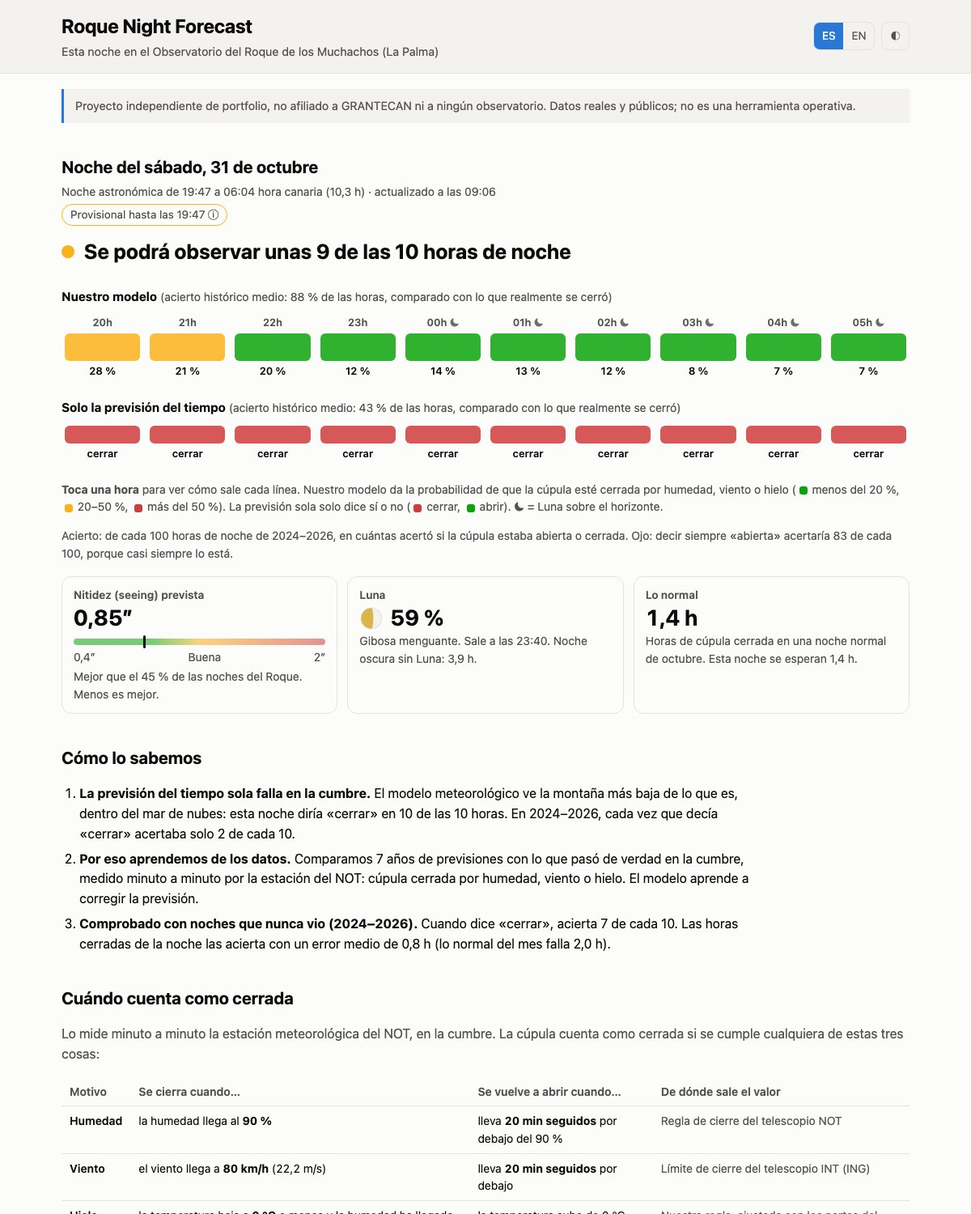
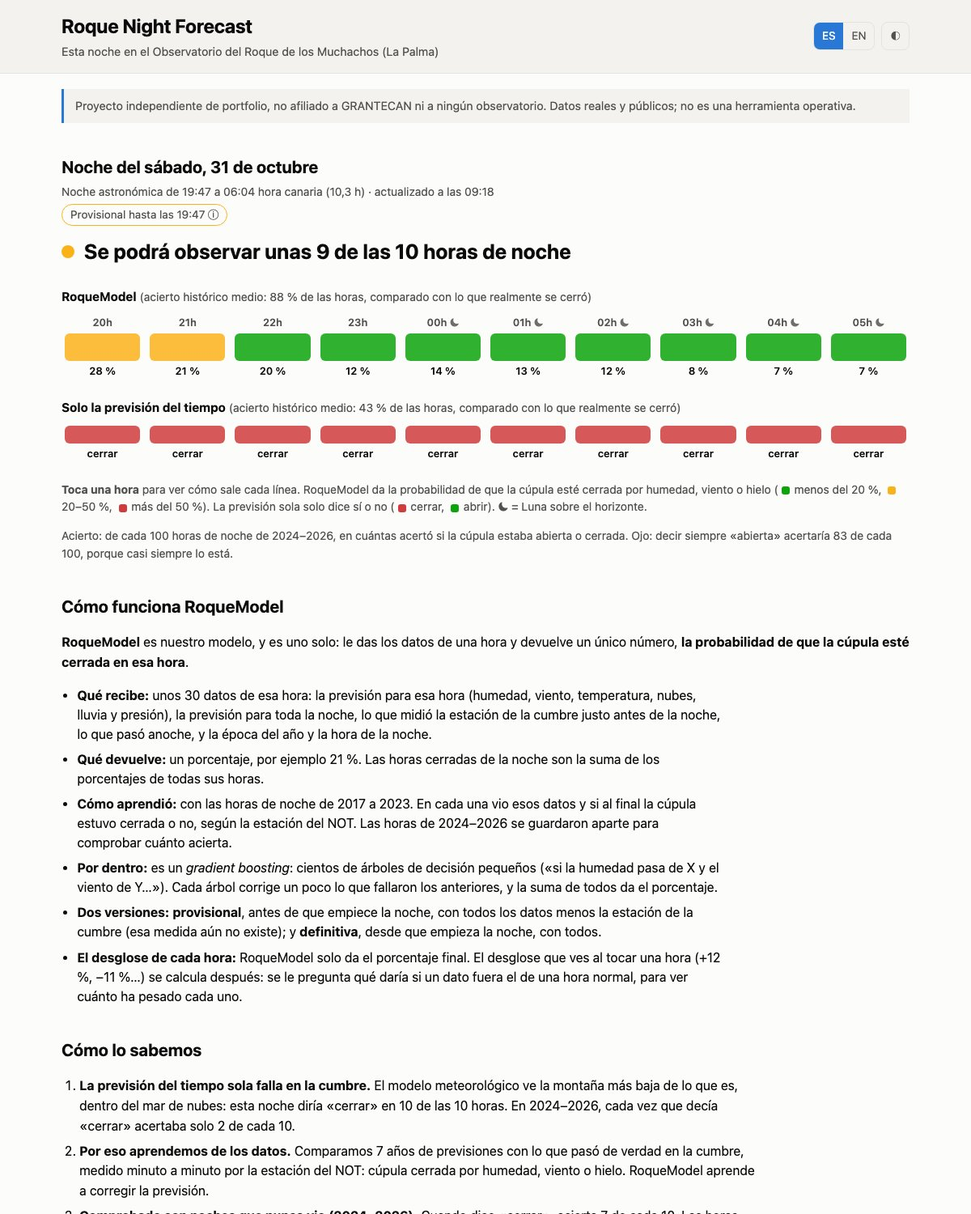
Name the closure model RoqueModel, explain how it works and drop the fact cards
- Page and README call the hourly closure model RoqueModel
- New "How RoqueModel works" section: one model, its inputs and output, how it
  learnt, what is inside, the two versions and where the breakdown comes from
- Seeing, Moon and "usual" cards removed from the page (seeing is still
  computed live and sent to FIWARE)

diff --git a/site/assets/i18n.js b/site/assets/i18n.js
@@ -13,15 +13,15 @@ window.I18N = {
     headline: "Se podrá observar unas {open} de las {total} horas de noche",
     cell_title: "{time}: {p} de que la cúpula esté cerrada",
     moon_up_word: "Luna sobre el horizonte",
-    strip_legend: "<b>Toca una hora</b> para ver cómo sale cada línea. Nuestro modelo da la probabilidad de que la cúpula esté cerrada por humedad, viento o hielo (<span class=\"sw\" style=\"background:var(--good)\"></span> menos del 20 %, <span class=\"sw\" style=\"background:var(--warning)\"></span> 20–50 %, <span class=\"sw\" style=\"background:var(--critical)\"></span> más del 50 %). La previsión sola solo dice sí o no (<span class=\"sw\" style=\"background:var(--critical)\"></span> cerrar, <span class=\"sw\" style=\"background:var(--good)\"></span> abrir). ☾ = Luna sobre el horizonte.",
-    line_model: "Nuestro modelo",
+    strip_legend: "<b>Toca una hora</b> para ver cómo sale cada línea. RoqueModel da la probabilidad de que la cúpula esté cerrada por humedad, viento o hielo (<span class=\"sw\" style=\"background:var(--good)\"></span> menos del 20 %, <span class=\"sw\" style=\"background:var(--warning)\"></span> 20–50 %, <span class=\"sw\" style=\"background:var(--critical)\"></span> más del 50 %). La previsión sola solo dice sí o no (<span class=\"sw\" style=\"background:var(--critical)\"></span> cerrar, <span class=\"sw\" style=\"background:var(--good)\"></span> abrir). ☾ = Luna sobre el horizonte.",
+    line_model: "RoqueModel",
     line_raw: "Solo la previsión del tiempo",
     line_acc: "acierto histórico medio: {p} de las horas, comparado con lo que realmente se cerró",
     acc_note: "Acierto: de cada 100 horas de noche de 2024–2026, en cuántas acertó si la cúpula estaba abierta o cerrada. Ojo: decir siempre «abierta» acertaría {open} de cada 100, porque casi siempre lo está.",
     raw_close_word: "cerrar", raw_open_word: "abrir",
     detail_title: "De {start} a {end}: cómo sale cada línea", detail_close: "Cerrar",
     colors: { low: "verde", medium: "naranja", high: "rojo" },
-    model_title: "Nuestro modelo: {p} → {color}",
+    model_title: "RoqueModel: {p} → {color}",
     model_base: "Empieza en {p}: es lo que el modelo da a una hora de noche cualquiera (más o menos, la parte de horas que se cierran). Después, cada dato lo sube (+) o lo baja (−):",
     groups: { humidity: "Humedad", wind: "Viento en la cumbre", temperature: "Temperatura", cloud: "Nubes", rain: "Lluvia", pressure: "Presión", night_forecast: "Previsión para toda la noche", station: "Estación de la cumbre antes de la noche", last_night: "Lo que pasó anoche", calendar: "Época del año y hora de la noche" },
     hour_group: "Previsión para esta hora",
@@ -60,8 +60,11 @@ window.I18N = {
     usual_text: "Horas de cúpula cerrada en una noche normal de {month}. Esta noche se esperan {h} h.",
     updated: "Pronóstico emitido: {time} hora canaria.",
     how_title: "Cómo lo sabemos",
+    rm_title: "Cómo funciona RoqueModel",
+    rm_intro: "<b>RoqueModel</b> es nuestro modelo, y es uno solo: le das los datos de una hora y devuelve un único número, <b>la probabilidad de que la cúpula esté cerrada en esa hora</b>.",
+    rm_list: "<li><b>Qué recibe:</b> unos 30 datos de esa hora: la previsión para esa hora (humedad, viento, temperatura, nubes, lluvia y presión), la previsión para toda la noche, lo que midió la estación de la cumbre justo antes de la noche, lo que pasó anoche, y la época del año y la hora de la noche.</li><li><b>Qué devuelve:</b> un porcentaje, por ejemplo 21 %. Las horas cerradas de la noche son la suma de los porcentajes de todas sus horas.</li><li><b>Cómo aprendió:</b> con las horas de noche de 2017 a 2023. En cada una vio esos datos y si al final la cúpula estuvo cerrada o no, según la estación del NOT. Las horas de 2024–2026 se guardaron aparte para comprobar cuánto acierta.</li><li><b>Por dentro:</b> es un <i>gradient boosting</i>: cientos de árboles de decisión pequeños («si la humedad pasa de X y el viento de Y…»). Cada árbol corrige un poco lo que fallaron los anteriores, y la suma de todos da el porcentaje.</li><li><b>Dos versiones:</b> <b>provisional</b>, antes de que empiece la noche, con todos los datos menos la estación de la cumbre (esa medida aún no existe); y <b>definitiva</b>, desde que empieza la noche, con todos.</li><li><b>El desglose de cada hora:</b> RoqueModel solo da el porcentaje final. El desglose que ves al tocar una hora (+12 %, −11 %…) se calcula después: se le pregunta qué daría si un dato fuera el de una hora normal, para ver cuánto ha pesado cada uno.</li>",
     how1: "<b>La previsión del tiempo sola falla en la cumbre.</b> El modelo meteorológico ve la montaña más baja de lo que es, dentro del mar de nubes: esta noche diría «cerrar» en {n} de las {total} horas. En 2024–2026, cada vez que decía «cerrar» acertaba solo {r} de cada 10.",
-    how2: "<b>Por eso aprendemos de los datos.</b> Comparamos 7 años de previsiones con lo que pasó de verdad en la cumbre, medido minuto a minuto por la estación del NOT: cúpula cerrada por humedad, viento o hielo. El modelo aprende a corregir la previsión.",
+    how2: "<b>Por eso aprendemos de los datos.</b> Comparamos 7 años de previsiones con lo que pasó de verdad en la cumbre, medido minuto a minuto por la estación del NOT: cúpula cerrada por humedad, viento o hielo. RoqueModel aprende a corregir la previsión.",
     how3: "<b>Comprobado con noches que nunca vio (2024–2026).</b> Cuando dice «cerrar», acierta {r} de cada 10. Las horas cerradas de la noche las acierta con un error medio de {err} h (lo normal del mes falla {clim} h).",
     fold_real: "¿Refleja la realidad la etiqueta de cierre?",
     real_intro: "No hay un registro público de cuándo cierra el GTC. Para saber si nuestra etiqueta de «cerrada» se parece a la realidad, la comparamos con un telescopio de verdad: el <b>Liverpool Telescope</b>, en la misma montaña, que apunta cada noche desde 2007 cuántas horas perdió por el tiempo. A los dos les hacemos la misma pregunta, noche a noche: <b>¿se perdió al menos la mitad de la noche?</b>",
@@ -84,24 +87,24 @@ window.I18N = {
     eval_intro: "Todo con noches de 2024–2026 que los modelos nunca vieron al aprender, frente a lo más sencillo que hay que batir.",
     eval_note: "«Acierta 7 de cada 10» = de cada 10 veces que dice «cerrar», 7 lo estuvo. «Detecta 7 de cada 10» = de cada 10 horas cerradas, avisó de 7.",
     plain_title: "Más cifras, frente a lo más sencillo",
-    compare_headline: "Solo la previsión del tiempo se equivoca en <b>{raw} de cada 100 horas</b>; nuestro modelo, en <b>{fin} de cada 100</b> ({prov} antes de que empiece la noche).",
+    compare_headline: "Solo la previsión del tiempo se equivoca en <b>{raw} de cada 100 horas</b>; RoqueModel, en <b>{fin} de cada 100</b> ({prov} antes de que empiece la noche).",
     compare_cols: ["", "Horas con la cúpula cerrada", "Se equivoca en", "Cierra sin hacer falta", "No cierra cuando hacía falta"],
-    compare_rows: { real: "Lo que pasó de verdad (medido en la cumbre)", raw: "Solo la previsión del tiempo", final: "Nuestro modelo (definitivo)", provisional: "Nuestro modelo (provisional)" },
+    compare_rows: { real: "Lo que pasó de verdad (medido en la cumbre)", raw: "Solo la previsión del tiempo", final: "RoqueModel (definitivo)", provisional: "RoqueModel (provisional)" },
     compare_wrong: "{n} de cada 100 horas",
-    compare_note: "Son las {hours} horas de noche de 2024–2026, que el modelo nunca vio al aprender. «Cerrar» = la previsión da una humedad del 90 % o más; el modelo, una probabilidad del 50 % o más. Decir siempre «abierta» se equivocaría en {open} de cada 100 horas (justo las que estuvo cerrada): nuestro modelo también lo mejora.",
+    compare_note: "Son las {hours} horas de noche de 2024–2026, que el modelo nunca vio al aprender. «Cerrar» = la previsión da una humedad del 90 % o más; el modelo, una probabilidad del 50 % o más. Decir siempre «abierta» se equivocaría en {open} de cada 100 horas (justo las que estuvo cerrada): RoqueModel también lo mejora.",
     plain_yesno: "acierta {r} de cada 10; detecta {c} de cada 10",
     plain_error: "se equivoca de media {v}",
     provisional_word: "provisional",
     refs: { raw: "Previsión del tiempo sola", precasting: "Humedad justo antes de la noche", climatology: "Lo normal del mes", persistence: "Igual que anoche" },
     what: { hour: "Cúpula cerrada en cada hora", night: "Horas cerradas de la noche", seeing: "Seeing de la noche" },
-    col_what: "Qué se predice", col_ours: "Nuestro pronóstico (definitivo)", col_refs: "Lo que hay que batir",
+    col_what: "Qué se predice", col_ours: "RoqueModel (definitivo)", col_refs: "Lo que hay que batir",
     recent_title: "Últimas 60 noches de la prueba",
     recent_text: "Barras: horas de cúpula cerrada que pronosticó el modelo. Puntos: las que de verdad lo estuvieron.",
     forecast_word: "Pronóstico", actual_word: "Real", hours_word: "Horas",
     reliability_title: "¿Son fiables los porcentajes?",
     reliability_text: "Horas de 2024–2026 agrupadas por el porcentaje que dio el modelo. Si dice 30 %, la cúpula debería estar cerrada unas 3 de cada 10 de esas horas: cuanto más cerca de la diagonal, mejor.",
     eval_reliability: "Fiabilidad de los porcentajes",
-    rel_x: "Porcentaje pronosticado", rel_y: "Cerrada de verdad", rel_model: "Nuestro modelo", rel_perfect: "Perfecto",
+    rel_x: "Porcentaje pronosticado", rel_y: "Cerrada de verdad", rel_model: "RoqueModel", rel_perfect: "Perfecto",
     track_title: "Historial en directo",
     track_text: "Cada pronóstico emitido por esta web frente a lo que pasó. Se llena noche a noche.",
     track_empty: "Todavía no hay noches terminadas con pronóstico emitido.",
@@ -159,15 +162,15 @@ window.I18N = {
     headline: "About {open} of the {total} night hours should be observable",
     cell_title: "{time}: {p} chance that the dome is closed",
     moon_up_word: "Moon above the horizon",
-    strip_legend: "<b>Tap an hour</b> to see how each line comes out. Our model gives the chance that the dome is closed for humidity, wind or ice (<span class=\"sw\" style=\"background:var(--good)\"></span> below 20 %, <span class=\"sw\" style=\"background:var(--warning)\"></span> 20–50 %, <span class=\"sw\" style=\"background:var(--critical)\"></span> above 50 %). The forecast alone only says yes or no (<span class=\"sw\" style=\"background:var(--critical)\"></span> close, <span class=\"sw\" style=\"background:var(--good)\"></span> open). ☾ = Moon above the horizon.",
-    line_model: "Our model",
+    strip_legend: "<b>Tap an hour</b> to see how each line comes out. RoqueModel gives the chance that the dome is closed for humidity, wind or ice (<span class=\"sw\" style=\"background:var(--good)\"></span> below 20 %, <span class=\"sw\" style=\"background:var(--warning)\"></span> 20–50 %, <span class=\"sw\" style=\"background:var(--critical)\"></span> above 50 %). The forecast alone only says yes or no (<span class=\"sw\" style=\"background:var(--critical)\"></span> close, <span class=\"sw\" style=\"background:var(--good)\"></span> open). ☾ = Moon above the horizon.",
+    line_model: "RoqueModel",
     line_raw: "Weather forecast alone",
     line_acc: "average historical accuracy: {p} of hours, compared with what really closed",
     acc_note: "Accuracy: of every 100 night hours of 2024–2026, how many it got right (dome open or closed). Note: saying \"open\" every hour would be right in {open} of every 100, because it nearly always is.",
     raw_close_word: "close", raw_open_word: "open",
     detail_title: "{start} to {end}: how each line comes out", detail_close: "Close",
     colors: { low: "green", medium: "orange", high: "red" },
-    model_title: "Our model: {p} → {color}",
+    model_title: "RoqueModel: {p} → {color}",
     model_base: "It starts at {p}: what the model gives an ordinary night hour (roughly, the share of hours that close). Then each piece of data raises (+) or lowers (−) it:",
     groups: { humidity: "Humidity", wind: "Summit wind", temperature: "Temperature", cloud: "Cloud", rain: "Rain", pressure: "Pressure", night_forecast: "Forecast for the whole night", station: "Summit station before the night", last_night: "What happened last night", calendar: "Time of year and hour of the night" },
     hour_group: "Forecast for this hour",
@@ -206,8 +209,11 @@ window.I18N = {
     usual_text: "Closed hours on a usual {month} night. Tonight: {h} h expected.",
     updated: "Forecast issued: {time} Canary time.",
     how_title: "How we know",
+    rm_title: "How RoqueModel works",
+    rm_intro: "<b>RoqueModel</b> is our model, and it is a single one: you give it the data for one hour and it returns a single number, <b>the chance that the dome is closed in that hour</b>.",
+    rm_list: "<li><b>What it gets:</b> about 30 pieces of data for that hour: the forecast for that hour (humidity, wind, temperature, cloud, rain and pressure), the forecast for the whole night, what the summit station measured just before the night, what happened last night, and the time of year and hour of the night.</li><li><b>What it returns:</b> a percentage, for example 21 %. The night's closed hours are the sum of the percentages of all its hours.</li><li><b>How it learnt:</b> from the night hours of 2017 to 2023. For each one it saw those data and whether the dome ended up closed or not, according to the NOT station. The hours of 2024–2026 were kept apart to check how good it is.</li><li><b>Inside:</b> it is a <i>gradient boosting</i> model: hundreds of small decision trees (\"if humidity is above X and wind above Y…\"). Each tree corrects a little of what the previous ones got wrong, and adding them all up gives the percentage.</li><li><b>Two versions:</b> <b>provisional</b>, before the night starts, with every input except the summit station (that reading does not exist yet); and <b>final</b>, from the start of the night, with all of them.</li><li><b>Each hour's breakdown:</b> RoqueModel only gives the final percentage. The breakdown you see when you tap an hour (+12 %, −11 %…) is worked out afterwards: it is asked what it would give if one piece of data were that of an ordinary hour, to see how much each one weighed.</li>",
     how1: "<b>The weather forecast alone fails at the summit.</b> The weather model sees the mountain lower than it is, inside the sea of clouds: tonight it would say \"close\" in {n} of the {total} hours. In 2024–2026, each time it said \"close\" it was right only {r} times in 10.",
-    how2: "<b>So we learn from the data.</b> We compare 7 years of forecasts with what really happened at the summit, measured minute by minute by the NOT weather station: dome closed for humidity, wind or ice. The model learns to correct the forecast.",
+    how2: "<b>So we learn from the data.</b> We compare 7 years of forecasts with what really happened at the summit, measured minute by minute by the NOT weather station: dome closed for humidity, wind or ice. RoqueModel learns to correct the forecast.",
     how3: "<b>Tested on nights it never saw (2024–2026).</b> When it says \"close\", it is right {r} times in 10. It gets the night's closed hours with an average error of {err} h (the usual for the month misses by {clim} h).",
     fold_real: "Does the closure label reflect reality?",
     real_intro: "There is no public record of when the GTC closes. To know whether our \"closed\" label looks like reality, we compare it with a real telescope: the <b>Liverpool Telescope</b>, on the same mountain, which books every night since 2007 how many hours it lost to the weather. We ask both the same question, night by night: <b>was at least half of the night lost?</b>",
@@ -230,24 +236,24 @@ window.I18N = {
     eval_intro: "All on 2024–2026 nights the models never saw while learning, against the simplest things to beat.",
     eval_note: "\"Right 7 in 10\" = of every 10 times it says \"close\", 7 were closed. \"Catches 7 in 10\" = of every 10 closed hours, it warned about 7.",
     plain_title: "More figures, against the simplest references",
-    compare_headline: "The weather forecast alone is wrong in <b>{raw} of every 100 hours</b>; our model, in <b>{fin} of every 100</b> ({prov} before the night starts).",
+    compare_headline: "The weather forecast alone is wrong in <b>{raw} of every 100 hours</b>; RoqueModel, in <b>{fin} of every 100</b> ({prov} before the night starts).",
     compare_cols: ["", "Hours with the dome closed", "Wrong in", "Closes when not needed", "Stays open when it should close"],
-    compare_rows: { real: "What really happened (measured at the summit)", raw: "Weather forecast alone", final: "Our model (final)", provisional: "Our model (provisional)" },
+    compare_rows: { real: "What really happened (measured at the summit)", raw: "Weather forecast alone", final: "RoqueModel (final)", provisional: "RoqueModel (provisional)" },
     compare_wrong: "{n} of every 100 hours",
-    compare_note: "These are the {hours} night hours of 2024–2026, which the model never saw while learning. \"Close\" = the forecast gives humidity of 90 % or more; the model, a probability of 50 % or more. Saying \"open\" every hour would be wrong in {open} of every 100 hours (exactly the closed ones): our model beats that too.",
+    compare_note: "These are the {hours} night hours of 2024–2026, which the model never saw while learning. \"Close\" = the forecast gives humidity of 90 % or more; the model, a probability of 50 % or more. Saying \"open\" every hour would be wrong in {open} of every 100 hours (exactly the closed ones): RoqueModel beats that too.",
     plain_yesno: "right {r} in 10; catches {c} in 10",
     plain_error: "off by {v} on average",
     provisional_word: "provisional",
     refs: { raw: "Weather forecast alone", precasting: "Humidity just before the night", climatology: "The usual for the month", persistence: "Same as last night" },
     what: { hour: "Dome closed each hour", night: "Closed hours of the night", seeing: "Seeing of the night" },
-    col_what: "What is forecast", col_ours: "Our forecast (final)", col_refs: "What it has to beat",
+    col_what: "What is forecast", col_ours: "RoqueModel (final)", col_refs: "What it has to beat",
     recent_title: "Last 60 test nights",
     recent_text: "Bars: closed hours the model forecast. Dots: the hours that really were closed.",
     forecast_word: "Forecast", actual_word: "Actual", hours_word: "Hours",
     reliability_title: "Can the percentages be trusted?",
     reliability_text: "Hours of 2024–2026 grouped by the percentage the model gave. When it says 30 %, the dome should be closed in about 3 of 10 of those hours: the closer to the diagonal, the better.",
     eval_reliability: "Reliability of the percentages",
-    rel_x: "Forecast percentage", rel_y: "Actually closed", rel_model: "Our model", rel_perfect: "Perfect",
+    rel_x: "Forecast percentage", rel_y: "Actually closed", rel_model: "RoqueModel", rel_perfect: "Perfect",
     track_title: "Live track record",
     track_text: "Every forecast issued by this page against what happened. It fills up night by night.",
     track_empty: "No finished night with an issued forecast yet.",

diff --git a/site/assets/app.js b/site/assets/app.js
@@ -143,7 +143,7 @@
 
   // ---------------------------------------------------------------- tonight
   function renderTonight(d) {
-    const t = T(), f = d.forecast, n = d.night, month = monthName(n.date);
+    const t = T(), f = d.forecast, n = d.night;
     const date = new Date(n.date + "T12:00:00Z").toLocaleDateString(locale(), { weekday: "long", day: "numeric", month: "long", timeZone: "UTC" });
     $("night-title").textContent = fill(t.night_of, { date });
     $("night-window").textContent = fill(t.window, { start: timeLocal(n.start_utc), end: timeLocal(n.end_utc), hours: num(n.length_h), updated: timeLocal(d.issued_utc) });
@@ -159,39 +159,9 @@
 
     renderLines(d);
 
-    // Seeing: value, a 0.4-2" scale and how it ranks among Roque nights.
-    $("seeing").textContent = num(f.seeing_arcsec, 2) + "″";
-    const x = Math.min(1, Math.max(0, (f.seeing_arcsec - 0.4) / 1.6));
-    $("seeing-mark").style.left = (x * 100).toFixed(1) + "%";
-    $("seeing-class").textContent = t["seeing_" + f.seeing_class];
-    const q = state.evaluation && state.evaluation.seeing_quantiles;
-    $("seeing-ref").textContent = q ? fill(t.seeing_better, { p: 100 - q.filter((v) => v < f.seeing_arcsec).length }) : "";
-
-    if (d.moon) renderMoon(d.moon);
-    $("usual").textContent = num(f.usual.closed_h) + " h";
-    $("usual-text").textContent = fill(t.usual_text, { month, h: num(f.closed_h) });
     $("updated").textContent = fill(t.updated, { time: timeLocal(d.issued_utc, true) });
     renderHow(d);
     renderLive(d);
-  }
-
-  function moonPhase(m) {
-    const k = m.illumination;
-    if (k < 0.03) return "new";
-    if (k > 0.97) return "full";
-    if (k >= 0.43 && k <= 0.57) return m.waxing ? "first_quarter" : "last_quarter";
-    return (m.waxing ? "waxing_" : "waning_") + (k < 0.5 ? "crescent" : "gibbous");
-  }
-
-  function renderMoon(m) {
-    const t = T();
-    Charts.moonIcon($("moon-icon"), m.illumination, m.waxing);
-    let when;
-    if (m.rises_utc.length) when = fill(t.moon_rises, { time: timeLocal(m.rises_utc[0]) });
-    else if (m.sets_utc.length) when = fill(t.moon_sets, { time: timeLocal(m.sets_utc[0]) });
-    else when = m.up_at_start ? t.moon_all_night : t.moon_none;
-    $("moon-pct").textContent = pct(m.illumination);
-    $("moon-text").textContent = fill(t.moon_text, { phase: t.moon_phases[moonPhase(m)], when, dark: num(m.dark_h) });
   }
 
   function renderHow(d) {

diff --git a/site/index.html b/site/index.html
@@ -5,7 +5,7 @@
   <meta name="viewport" content="width=device-width, initial-scale=1">
   <title>Roque Night Forecast</title>
   <meta name="description" content="Tonight at the Roque de los Muchachos Observatory (La Palma), hour by hour: will the dome be open, and how sharp will the stars be. Independent project with real, public data.">
-  <link rel="stylesheet" href="assets/style.css?v=20">
+  <link rel="stylesheet" href="assets/style.css?v=21">
 </head>
 <body>
   <header class="top">
@@ -43,25 +43,13 @@
       <p class="muted small" data-i18n-html="strip_legend"></p>
       <p class="muted small" id="acc-note"></p>
 
-      <div class="facts">
-        <div class="fact">
-          <span class="fact-label" data-i18n="fact_seeing"></span>
-          <span class="fact-value" id="seeing"></span>
-          <div class="scale" aria-hidden="true"><div class="scale-bar"></div><div class="scale-mark" id="seeing-mark"></div></div>
-          <span class="scale-ends small muted"><span>0,4″</span><span id="seeing-class"></span><span>2″</span></span>
-          <span class="muted small" id="seeing-ref"></span>
-        </div>
-        <div class="fact">
-          <span class="fact-label" data-i18n="fact_moon"></span>
-          <span class="fact-value moon-value"><svg id="moon-icon" viewBox="0 0 40 40" width="30" height="30" aria-hidden="true"></svg><span id="moon-pct"></span></span>
-          <span class="muted small" id="moon-text"></span>
-        </div>
-        <div class="fact">
-          <span class="fact-label" data-i18n="fact_usual"></span>
-          <span class="fact-value" id="usual"></span>
-          <span class="muted small" id="usual-text"></span>
-        </div>
-      </div>
+    </section>
+
+    <!-- 2. How RoqueModel works -->
+    <section id="roquemodel">
+      <h2 data-i18n="rm_title"></h2>
+      <p data-i18n-html="rm_intro"></p>
+      <ul class="rm" data-i18n-html="rm_list"></ul>
     </section>
 
     <!-- 2. How we know, in three sentences -->
@@ -147,8 +135,8 @@
   </footer>
 
   <div id="tooltip" class="tooltip" role="status" hidden></div>
-  <script src="assets/i18n.js?v=20"></script>
-  <script src="assets/charts.js?v=20"></script>
-  <script src="assets/app.js?v=20"></script>
+  <script src="assets/i18n.js?v=21"></script>
+  <script src="assets/charts.js?v=21"></script>
+  <script src="assets/app.js?v=21"></script>
 </body>
 </html>

diff --git a/site/assets/style.css b/site/assets/style.css
@@ -305,3 +305,7 @@ table.rules-raw td.rule-yes { color: var(--critical); font-weight: 700; }
 .why-head { display: flex; justify-content: space-between; padding: 8px 0 2px; font-size: .85rem; border-bottom: 1px solid var(--border); }
 .why-row.sub { padding-left: 14px; }
 .why-row.sub .why-text b { font-weight: 600; }
+
+/* How RoqueModel works: a short list, one idea per line. */
+ul.rm { padding-left: 1.2rem; margin: .5rem 0; max-width: 820px; }
+ul.rm li { margin: .45rem 0; line-height: 1.5; }

diff --git a/README.md b/README.md
@@ -13,10 +13,24 @@ dome be open, and how sharp will the stars be?**
 
 | Question | Forecast | Learnt from |
 |---|---|---|
-| **Will the dome be open, and when?** | For each night hour, the probability that the dome is closed (`hourly.py`). The night's expected closed hours are the sum of the hours. | The **closure label** (see [below](#when-the-dome-counts-as-closed)), rebuilt minute by minute from the NOT weather station since 1997 (`dome.py`). |
-| **How sharp?** | The median seeing of the night (`train.py`). | The ING R2D2 seeing monitor (2018 →). |
+| **Will the dome be open, and when?** | **RoqueModel**: for each night hour, the probability that the dome is closed (`hourly.py`). The night's expected closed hours are the sum of the hours. | The **closure label** (see [below](#when-the-dome-counts-as-closed)), rebuilt minute by minute from the NOT weather station since 1997 (`dome.py`). |
+| **How sharp?** | The median seeing of the night (`train.py`; computed live and sent to FIWARE, not shown on the page). | The ING R2D2 seeing monitor (2018 →). |
 
-The Moon (phase, rise/set, moonless hours) is computed, not forecast.
+### How RoqueModel works
+
+- **One model:** it takes the data for one hour and returns one number, the chance that the dome is closed
+  in that hour. The night's closed hours are the sum over its hours.
+- **What it gets:** about 30 inputs: this hour's forecast (humidity, wind, temperature, cloud, rain,
+  pressure), the forecast for the whole night, the summit station just before the night, last night, and
+  the time of year and hour of the night.
+- **How it learnt:** night hours 2017–2023, each with those inputs and whether the dome ended up closed (the
+  label below). 2024–2026 are kept apart for testing.
+- **Inside:** gradient boosting (scikit-learn `HistGradientBoostingClassifier`): hundreds of small decision
+  trees, each correcting a little of what the previous ones got wrong.
+- **Two versions:** provisional (before the night, every input except the summit station, which does not
+  exist yet) and final (from the start of the night, all inputs).
+- **Each hour's breakdown** on the page is worked out afterwards (`explain.py`): how much the percentage
+  changes when one piece of data is swapped for that of an ordinary hour (exact Shapley values).
 
 **Why a model and not the weather forecast itself?** The weather model sees the mountain lower than it is,
 inside the sea of clouds below the summit: read literally (humidity ≥ 90 % → close) it calls "close" in
@@ -170,13 +184,13 @@ scripts/update_tonight.sh                       # both steps (hourly job); ROQUE
 ```
 
 The page answers the question first (how many hours should be observable, and which), with two lines of
-hours: **our model** (probability, green / orange / red) and **the weather forecast alone** (the label's
+hours: **RoqueModel** (probability, green / orange / red) and **the weather forecast alone** (the label's
 rules read literally: close / open), each with its historical accuracy against what really closed. Clicking
 an hour shows how both come out: for the model, a starting point plus the amount each group of inputs adds
 or takes away: this hour's forecast humidity, wind, temperature, cloud, rain and pressure one by one, then
 the night forecast, the summit station, last night and the time of year (exact Shapley values over ten
 groups, `explain.py`); for the forecast, which rule is met.
-Then the seeing and the Moon; the evidence (label checks, scores in plain words, recent nights, reliability, live track
+Then a short "How RoqueModel works"; the evidence (label checks, scores in plain words, recent nights, reliability, live track
 record, technical scores) is folded below.
 
 Every run is logged in `data/forecasts/issued.jsonl`. Each run also records what really happened the
